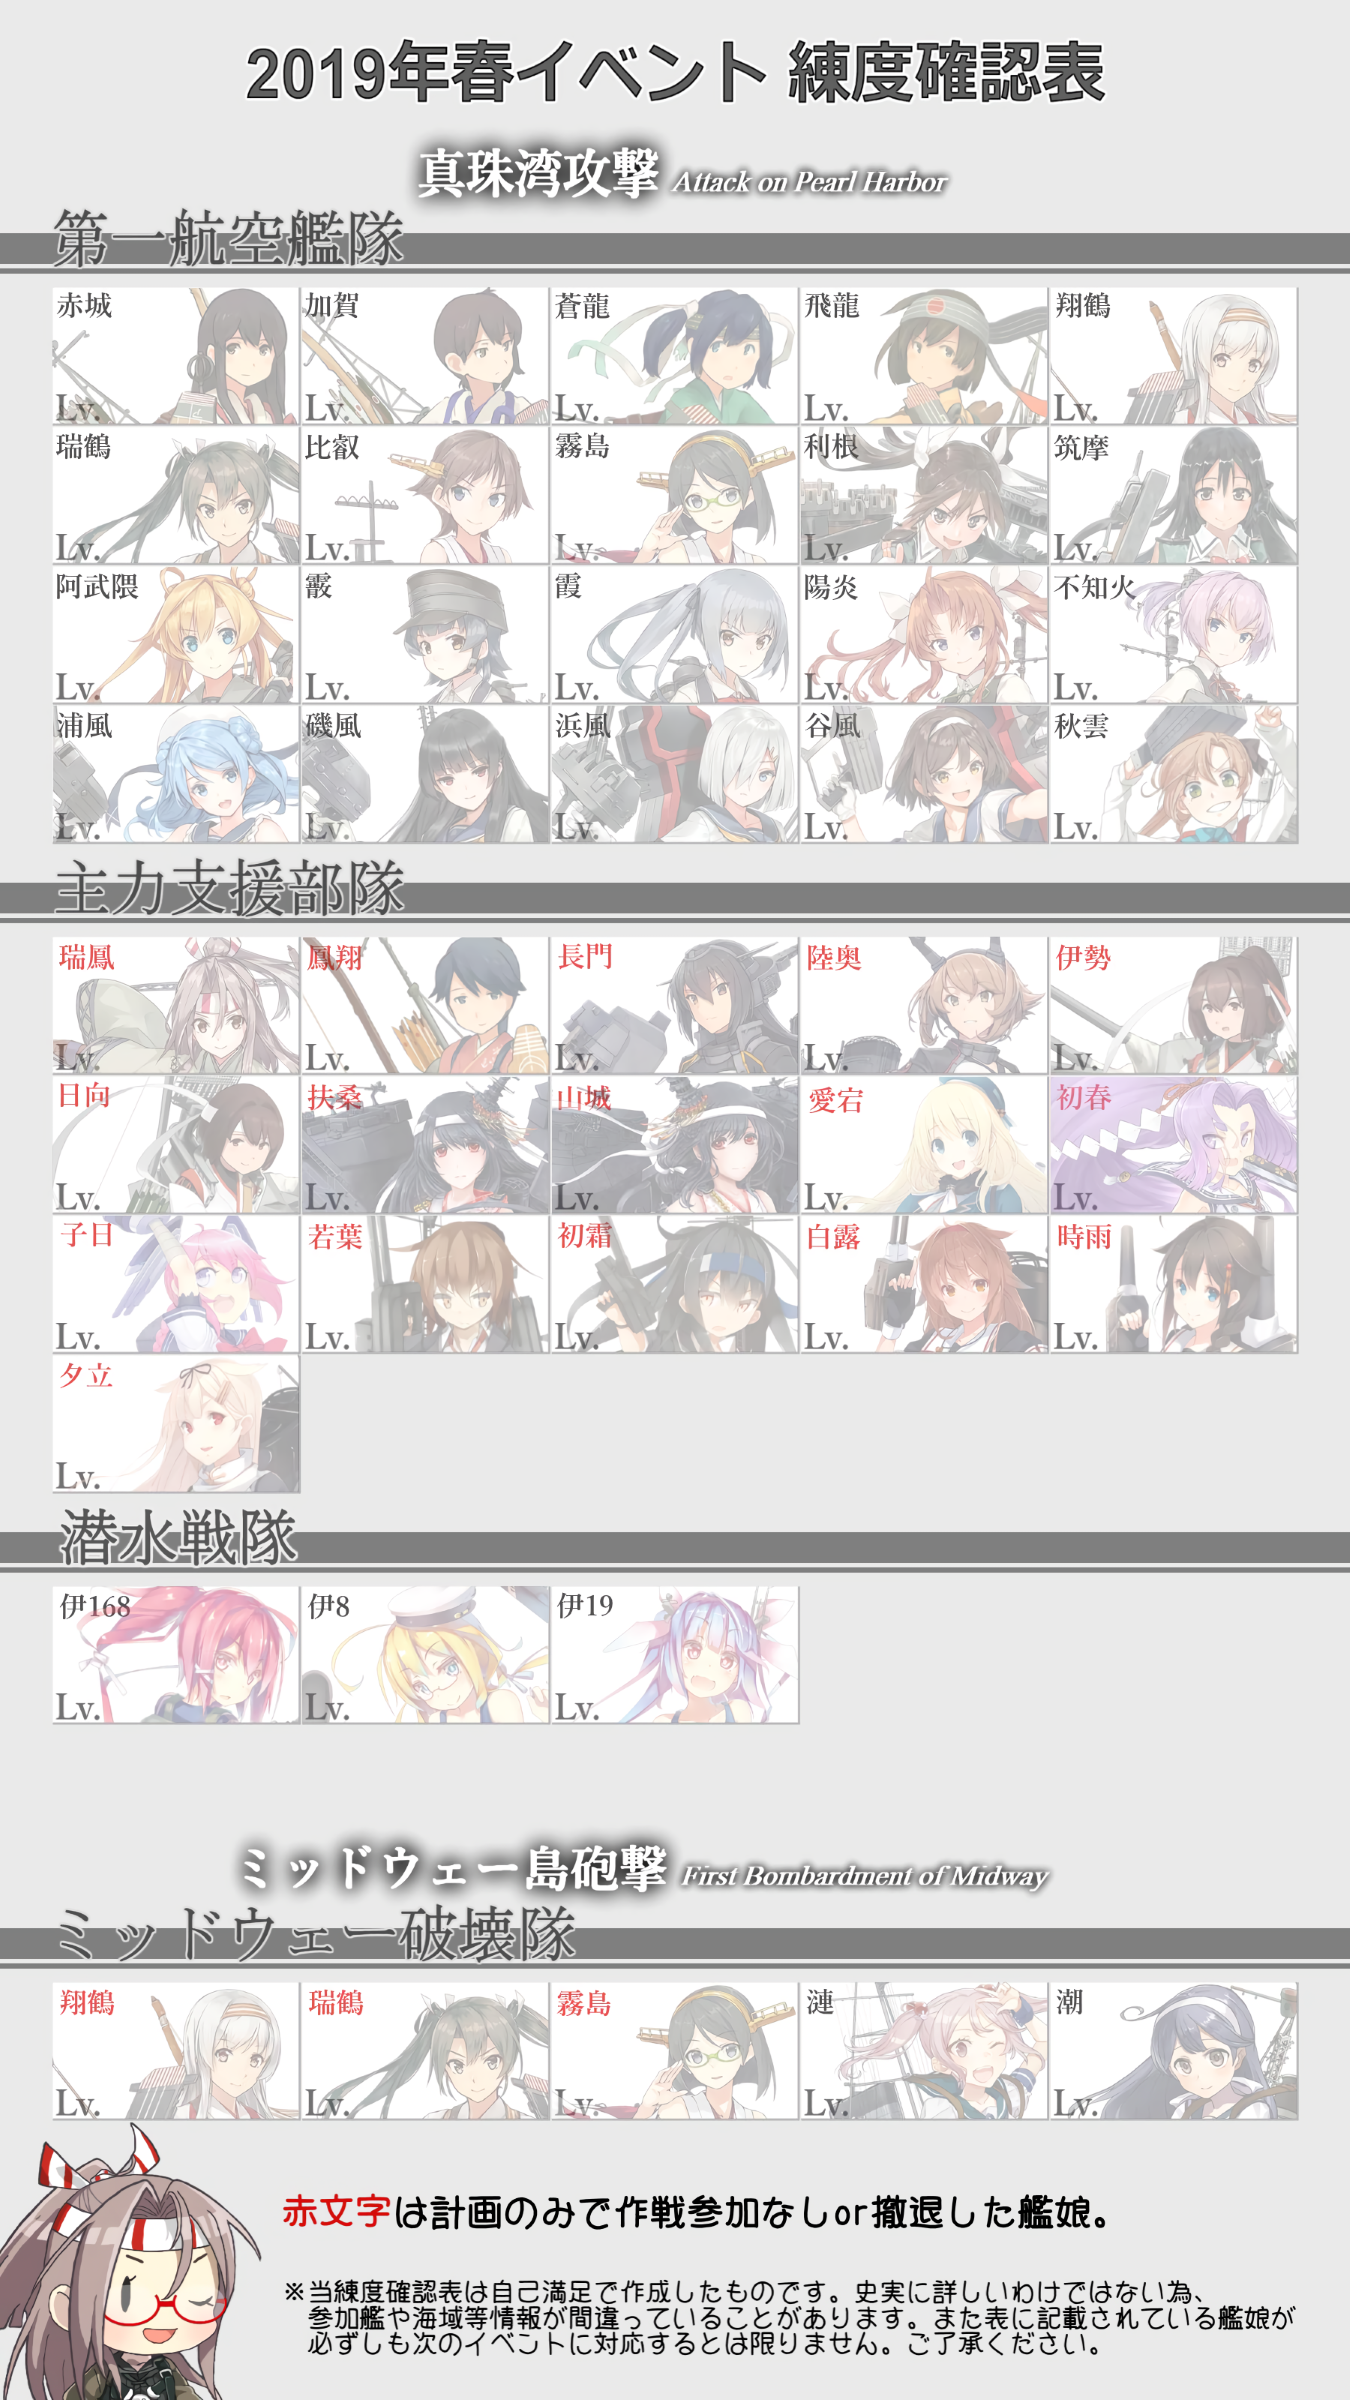
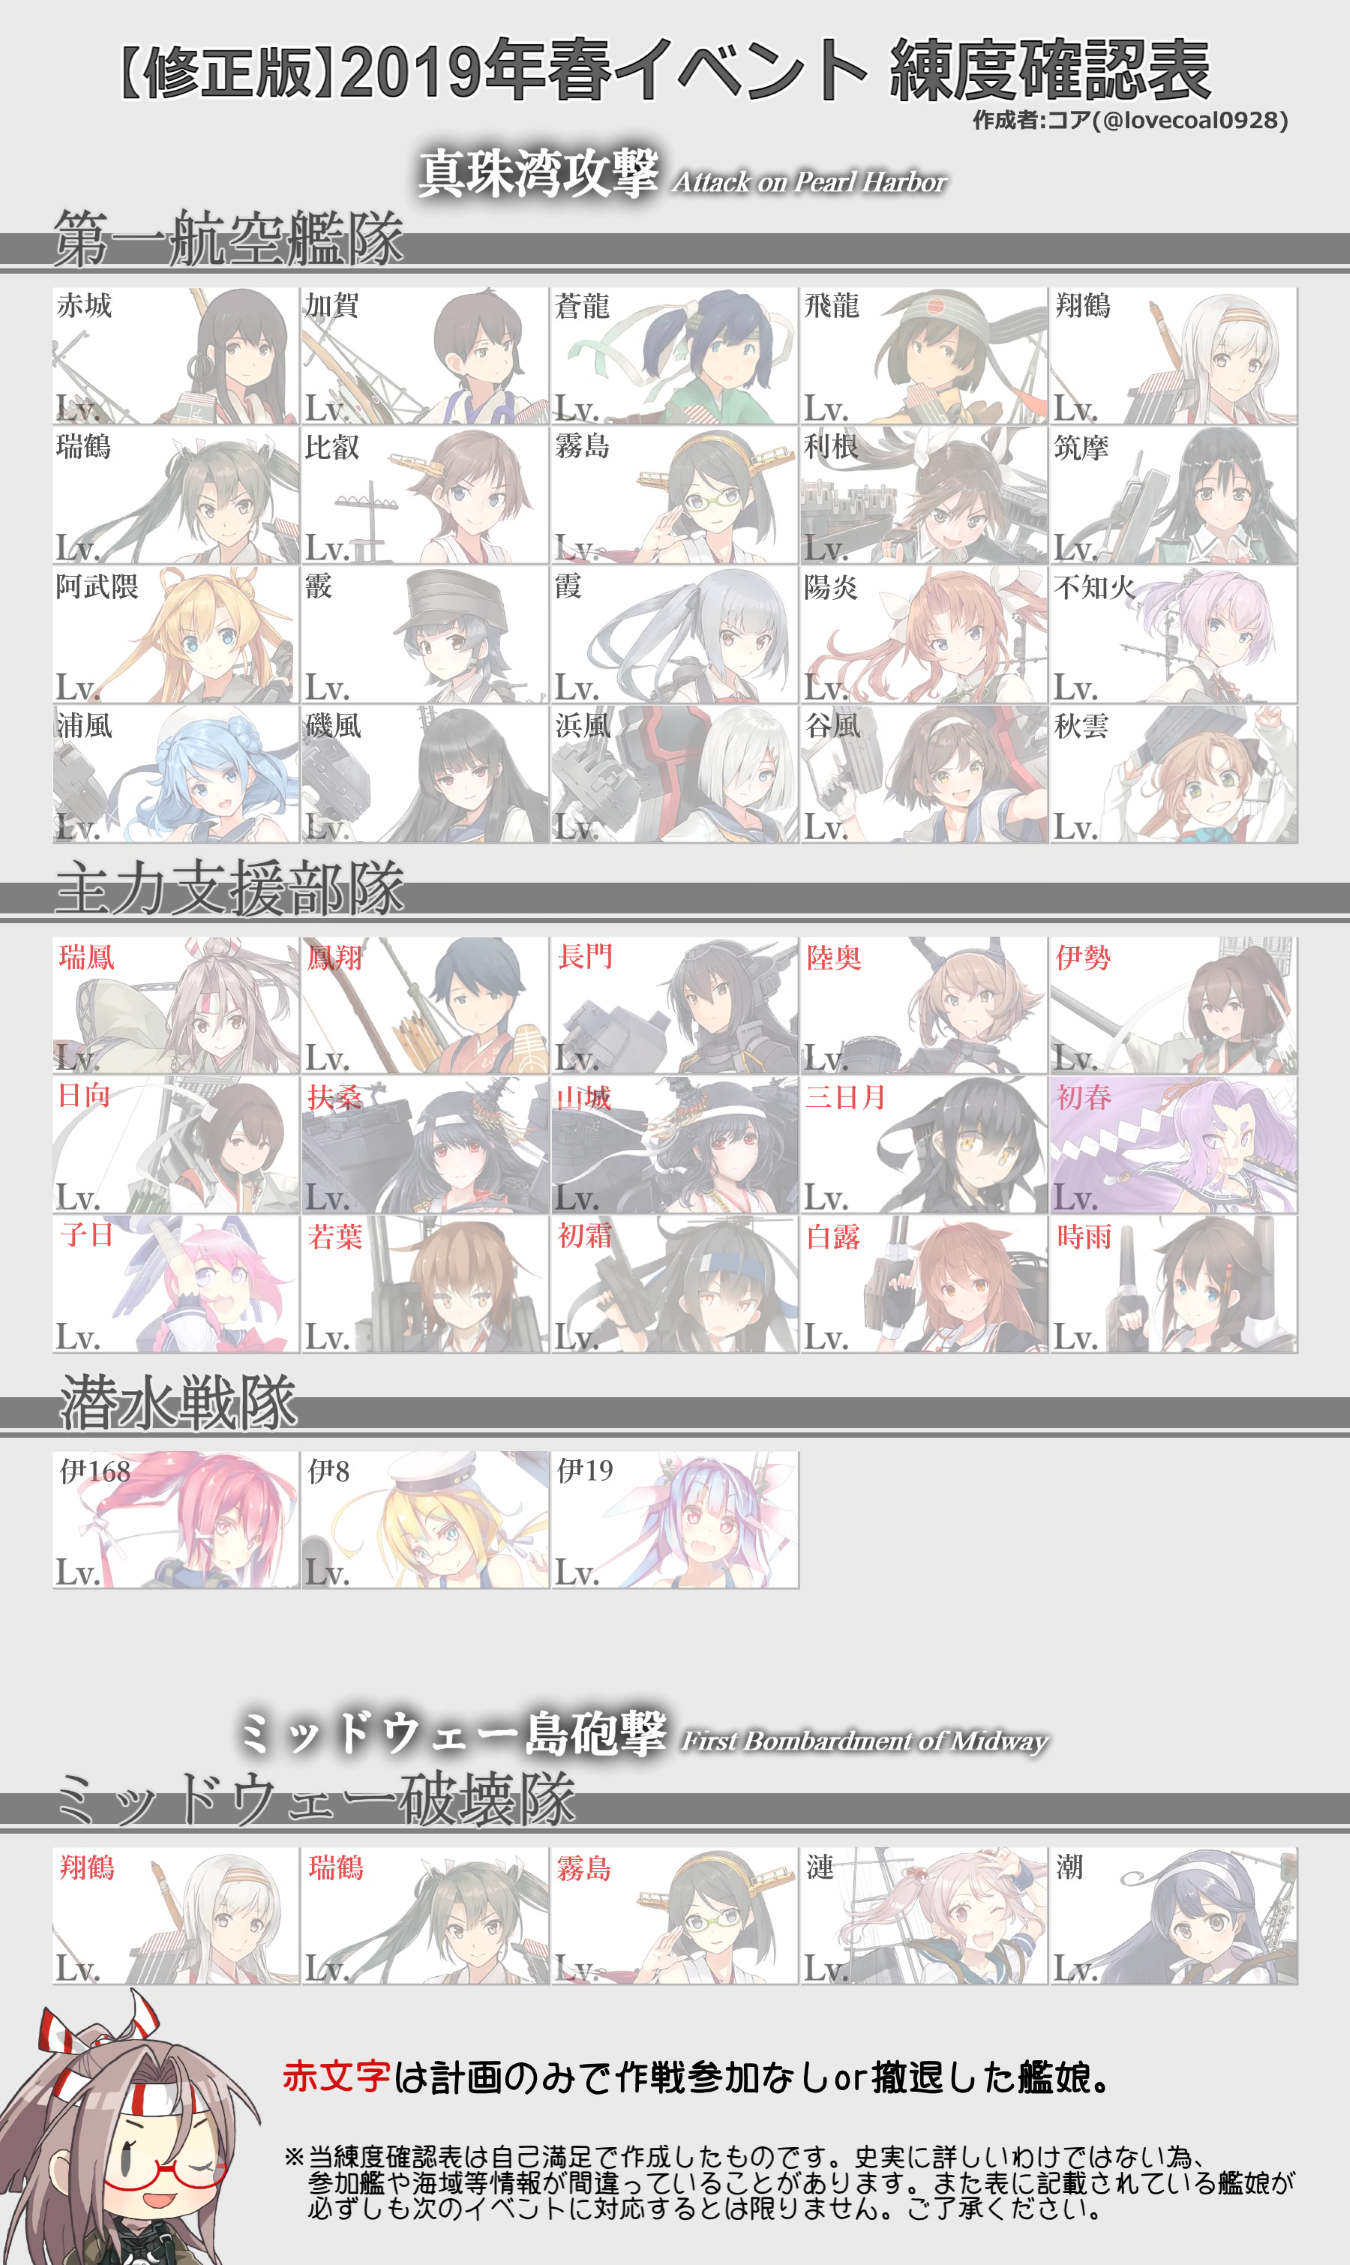
Update lovecoal chart

diff --git a/ShowcaseEventList.js b/ShowcaseEventList.js
@@ -44,7 +44,7 @@
                 {"x": 176+249 *0, "y": 470 + 139* 5, "id":  87}, // Hyuuga
                 {"x": 176+249 *1, "y": 470 + 139* 5, "id":  26}, // Fusou
                 {"x": 176+249 *2, "y": 470 + 139* 5, "id":  27}, // Yamashiro
-                {"x": 176+249 *3, "y": 470 + 139* 5, "id":  67}, // Atago
+                {"x": 176+249 *3, "y": 470 + 139* 5, "id":   7}, // Mikazuki
                 {"x": 176+249 *4, "y": 470 + 139* 5, "id":  38}, // Hatsuharu
                 
                 {"x": 176+249 *0, "y": 470 + 139* 6, "id":  39}, // Nenohi
@@ -53,17 +53,15 @@
                 {"x": 176+249 *3, "y": 470 + 139* 6, "id":  42}, // Shiratsuyu
                 {"x": 176+249 *4, "y": 470 + 139* 6, "id":  43}, // Shigure
                 
-                {"x": 176+249 *0, "y": 470 + 139* 7, "id":  45}, // Yuudachi
-
-                {"x": 176+249 *0, "y": 566 + 139* 8, "id": 126}, // I-168
-                {"x": 176+249 *1, "y": 566 + 139* 8, "id": 128}, // I-8
-                {"x": 176+249 *2, "y": 566 + 139* 8, "id": 191}, // I-19
+                {"x": 176+249 *0, "y": 566 + 139* 7, "id": 126}, // I-168
+                {"x": 176+249 *1, "y": 566 + 139* 7, "id": 128}, // I-8
+                {"x": 176+249 *2, "y": 566 + 139* 7, "id": 191}, // I-19
                 
-                {"x": 176+249 *0, "y": 824 + 139* 9, "id": 110}, // Shoukaku
-                {"x": 176+249 *1, "y": 824 + 139* 9, "id": 111}, // Zuikaku
-                {"x": 176+249 *2, "y": 824 + 139* 9, "id":  85}, // Kirishima
-                {"x": 176+249 *3, "y": 824 + 139* 9, "id":  94}, // Sazanami
-                {"x": 176+249 *4, "y": 824 + 139* 9, "id":  16}, // Ushio
+                {"x": 176+249 *0, "y": 824 + 139* 8, "id": 110}, // Shoukaku
+                {"x": 176+249 *1, "y": 824 + 139* 8, "id": 111}, // Zuikaku
+                {"x": 176+249 *2, "y": 824 + 139* 8, "id":  85}, // Kirishima
+                {"x": 176+249 *3, "y": 824 + 139* 8, "id":  94}, // Sazanami
+                {"x": 176+249 *4, "y": 824 + 139* 8, "id":  16}, // Ushio
             ],
         },
         // End of Year 2018 map
